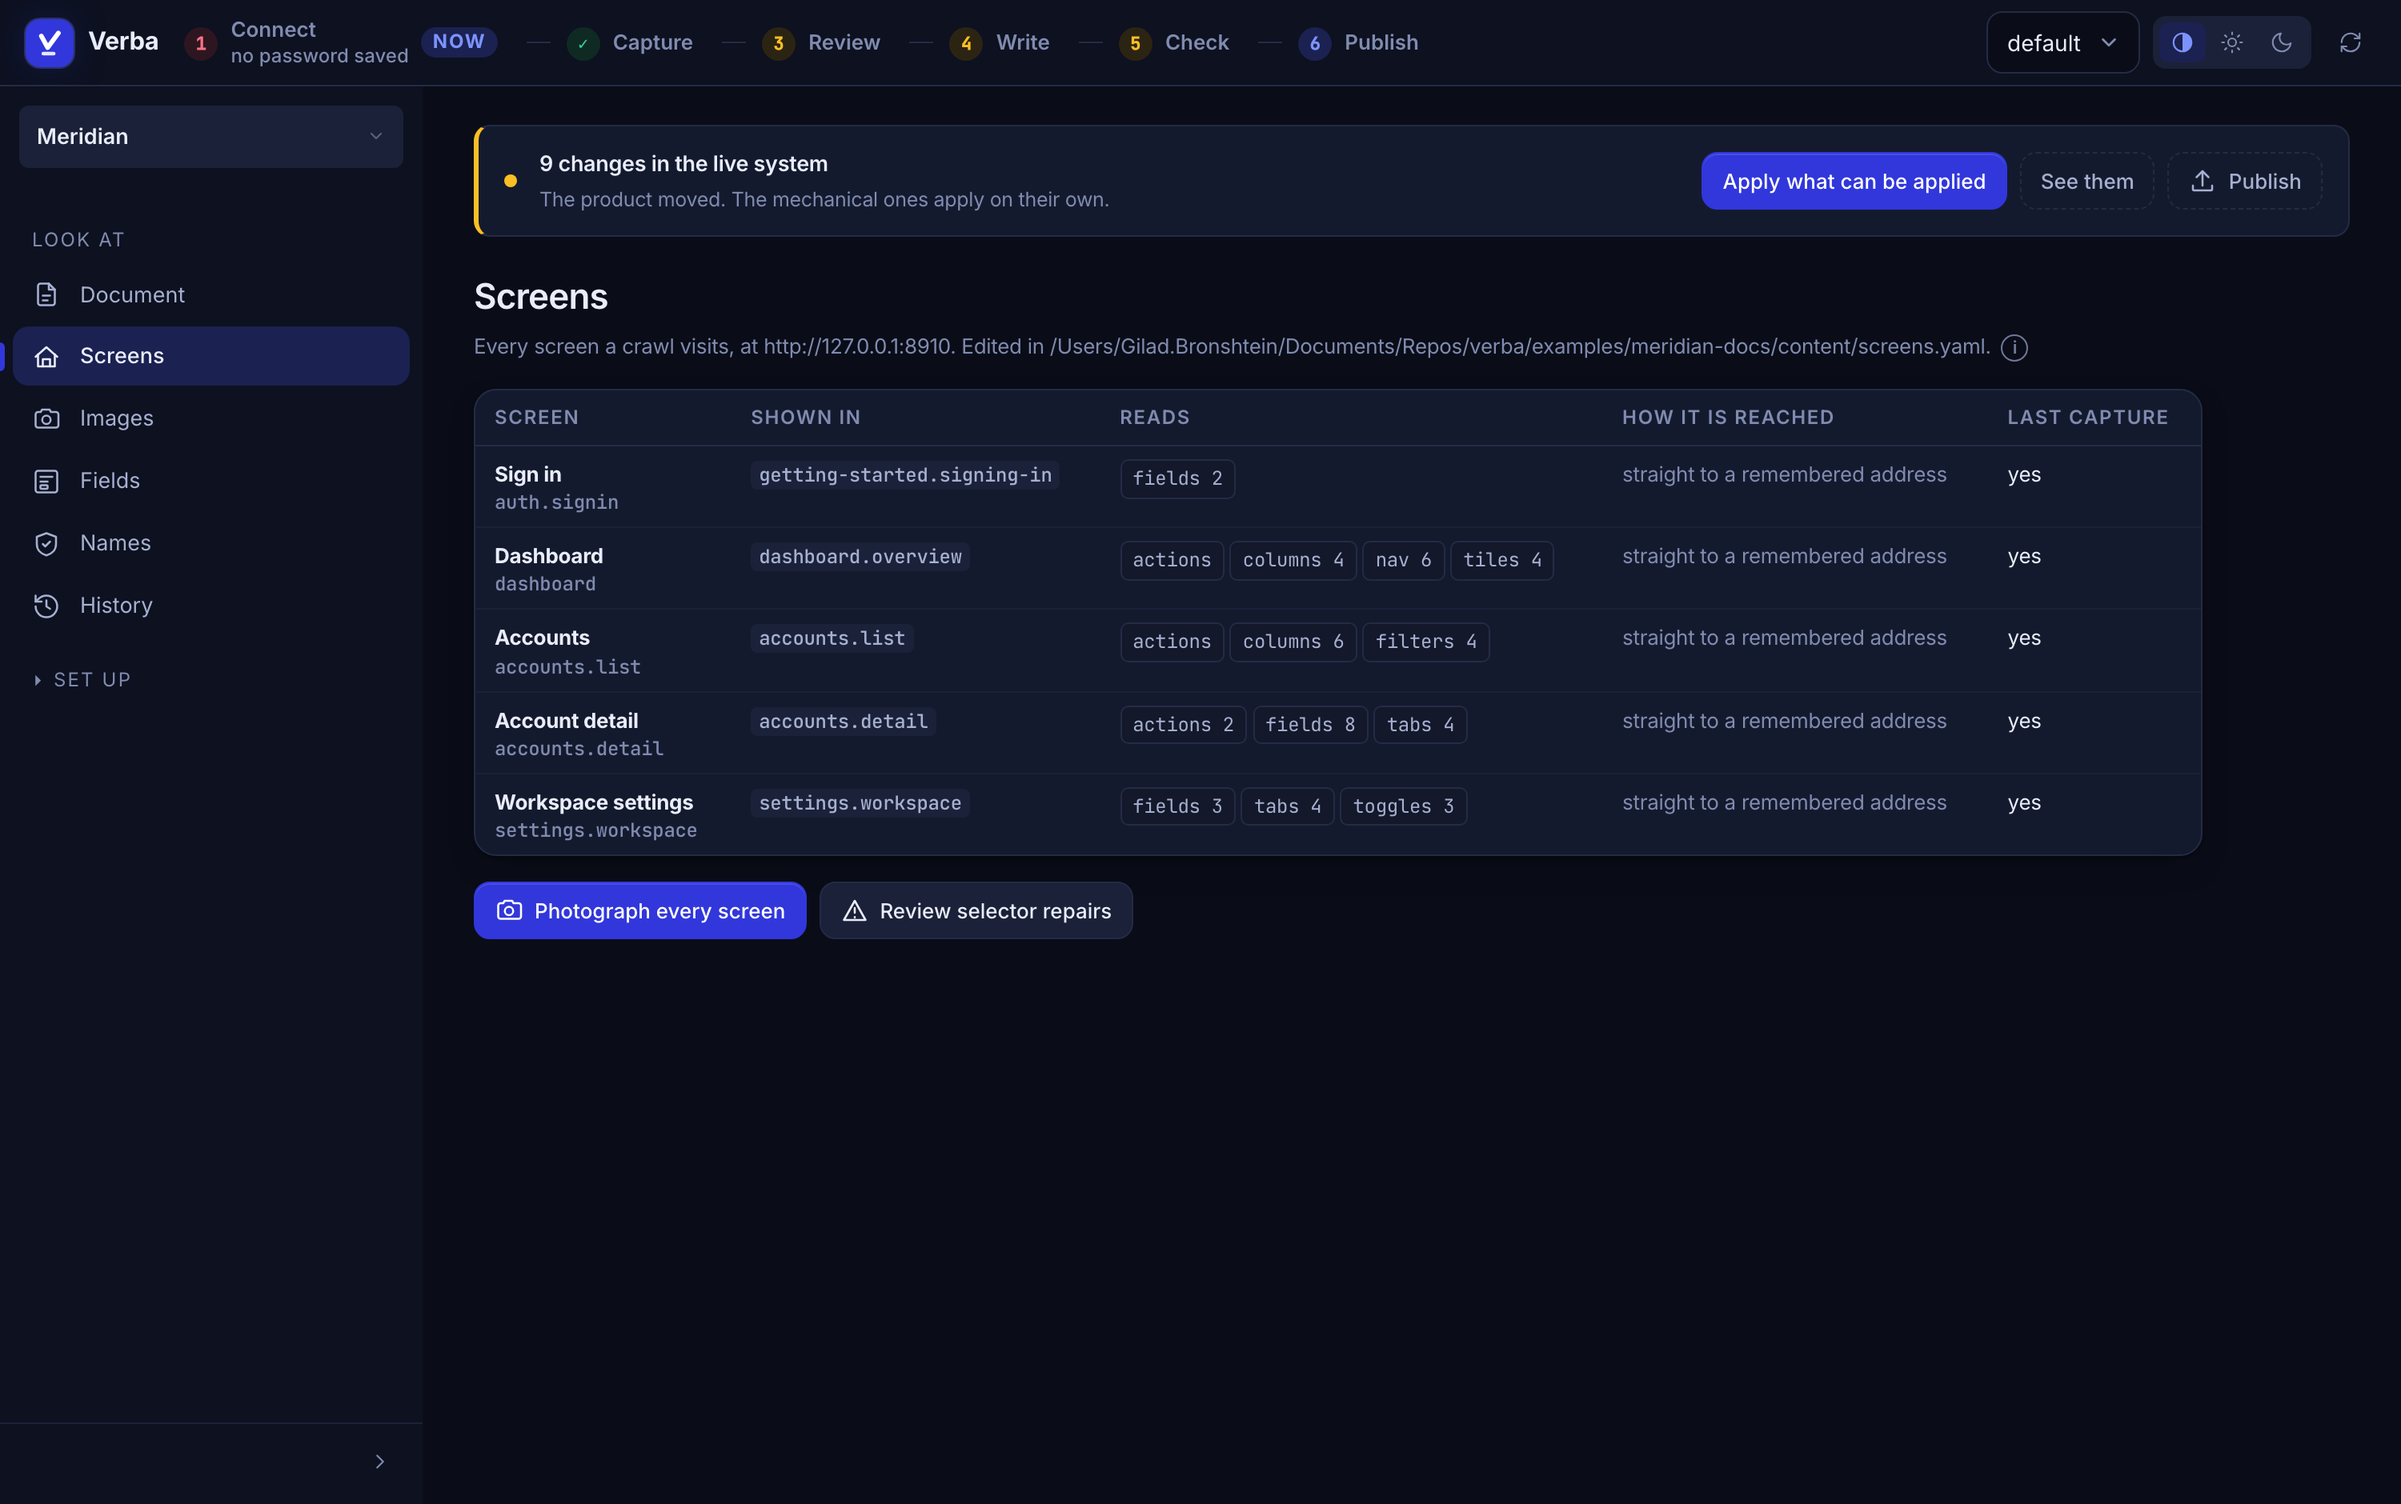
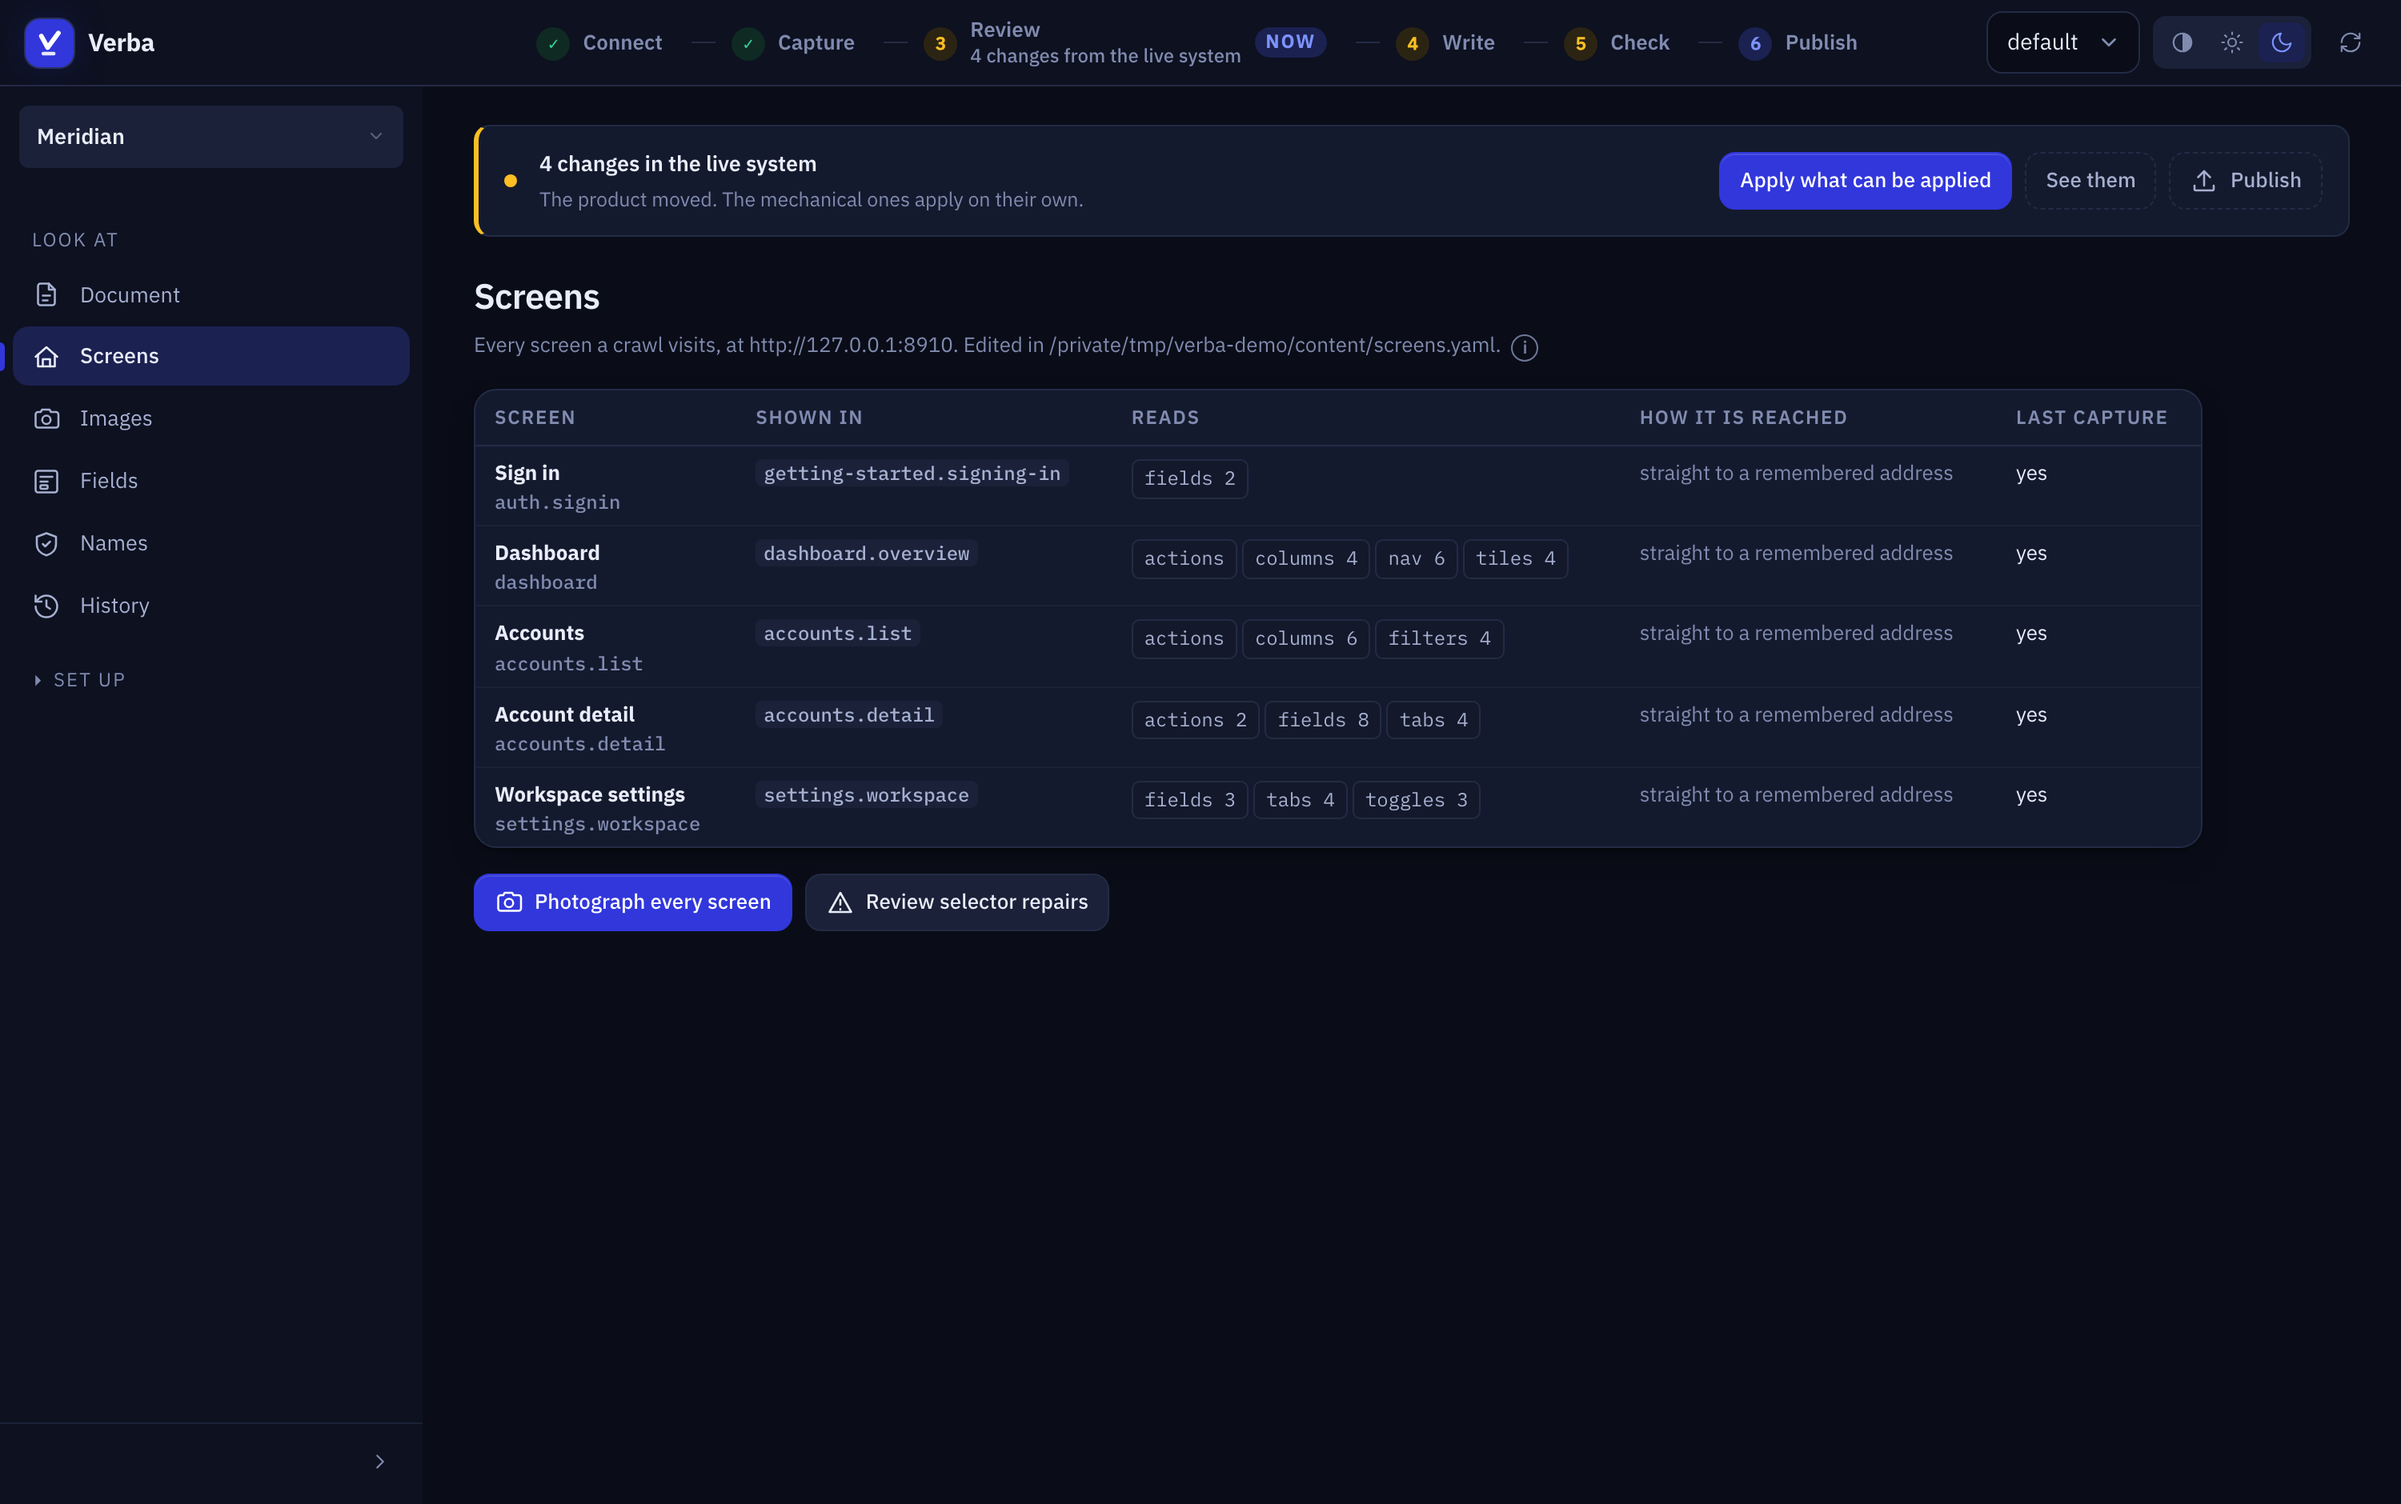
Screenshots that show the header the code now draws
Every console picture in the README and the wiki was taken before the process
nav moved to the middle of the bar, so the first thing anyone saw was a header
that no longer exists.

Retaken from a demo project at a neutral path with its own workspace registry,
because the previous set printed the machine's home directory, its owner's name
and an unrelated internal project into a public README. A screenshot of a
console is a screenshot of whatever was on screen, which is the same reason this
tool masks its own captures.

The one caption in the bar gets more room above 1400px. "4 changes from the
liv..." is a caption that has stopped doing its job while still taking the
space it needed to do it.

diff --git a/verba/console/static/app.css b/verba/console/static/app.css
@@ -1178,11 +1178,16 @@ header.top .scheme button { padding: 5px 7px; }
 
 .flow .stepbody { display: flex; flex-direction: column; align-items: flex-start; gap: 0; }
 .flow .stept { font-size: 13px; font-weight: 550; line-height: 1.2; }
+/* One caption is shown, on the step with the work in it, and it is capped so it
+   cannot push Publish off the end of the bar. On a wide screen there is room
+   for the whole sentence, and "4 changes from the liv..." is a caption that has
+   stopped doing its job while still taking the space. */
 .flow .steps-sub {
   font-size: 12px; color: var(--text-3); line-height: 1.25;
   max-width: 132px; overflow: hidden; text-overflow: ellipsis;
   white-space: nowrap;
 }
+@media (min-width: 1400px) { .flow .steps-sub { max-width: 215px; } }
 .flow .step.on .stept { color: var(--text); }
 .flow .stepord { display: none; }
 .flow .younow {

diff --git a/examples/meridian-docs/content/sections/accounts/list.md b/examples/meridian-docs/content/sections/accounts/list.md
@@ -15,10 +15,6 @@ Every account in the workspace, searchable and filterable by status.
   description: The immutable identifier used in exports and in the API
 - column: Region
   description: Where this account's events are processed
-- column: Plan
-  description: Starter, Growth or Scale
-- column: Status
-  description: Live, On hold or Disabled
 - column: OWNER
 ```
 
